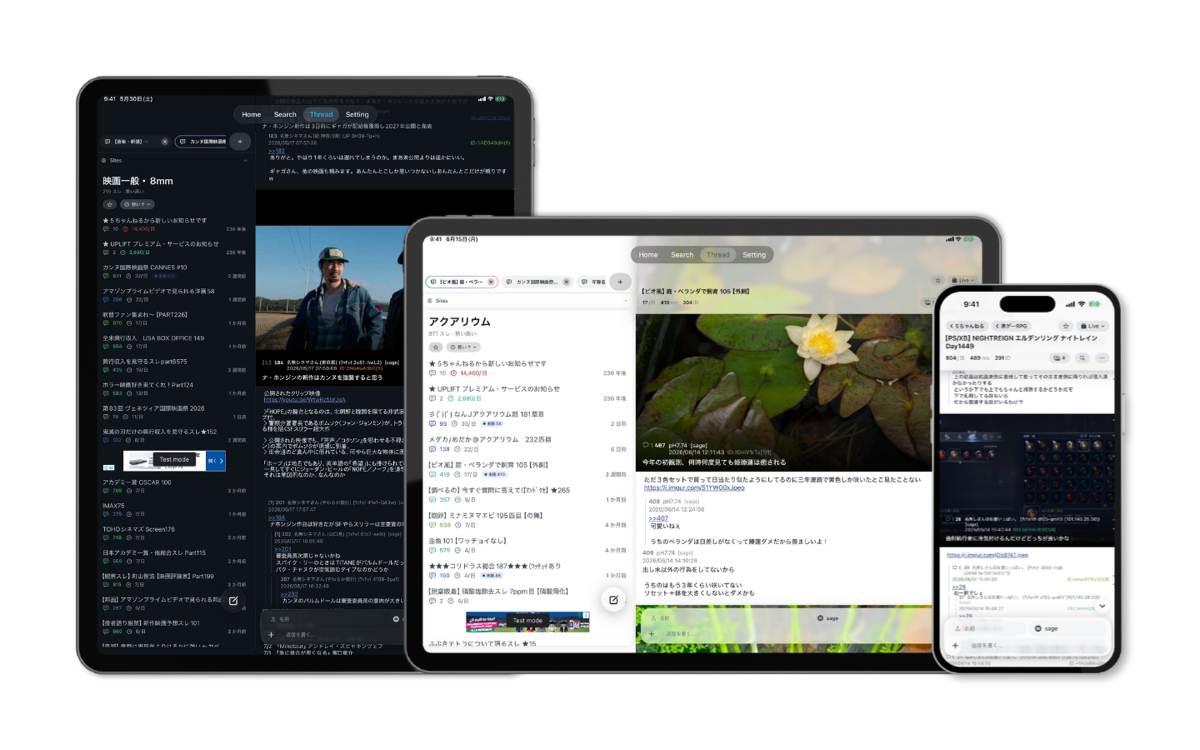
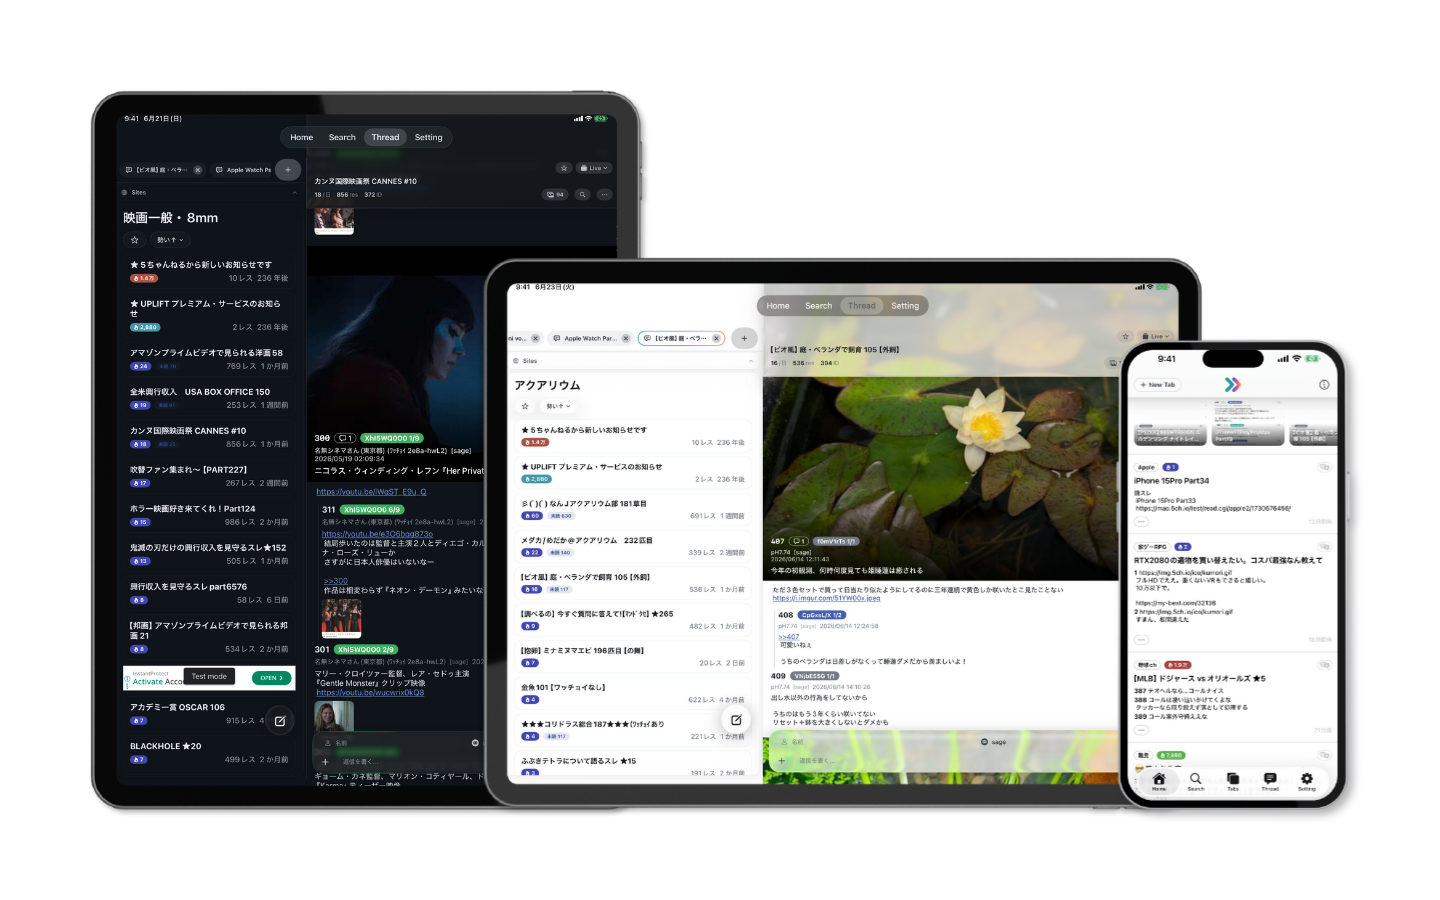
lichen LP: スクショ刷新 (hero/shot1-6 更新) + SCREENS見出しを「スクリーンショット」に

Changed region(s): [[0.0617, 0.1533, 0.9558, 0.92], [0.1542, 0.184, 0.185, 0.2147]]

diff --git a/lichen/index.html b/lichen/index.html
@@ -377,13 +377,15 @@
 <!-- ===================== スクショ / デモ ===================== -->
 <section class="wrap reveal">
   <p class="kicker"><span class="pillar">05 — SCREENS</span></p>
-  <h2>画面で、見る。</h2>
+  <h2>スクリーンショット</h2>
   <p class="sec-lead">実機の様子。スワイプでご覧ください。</p>
   <div class="gallery">
-    <img class="shot" src="assets/shot1.webp" alt="スレ一覧" loading="lazy">
-    <img class="shot" src="assets/shot2.webp" alt="Live モード" loading="lazy">
-    <img class="shot" src="assets/shot3.webp" alt="AI 要約カード" loading="lazy">
-    <img class="shot" src="assets/shot4.webp" alt="NG フィルタ / スレ内検索" loading="lazy">
+    <img class="shot" src="assets/shot1.webp" alt="Lichen スクリーンショット 1" loading="lazy">
+    <img class="shot" src="assets/shot2.webp" alt="Lichen スクリーンショット 2" loading="lazy">
+    <img class="shot" src="assets/shot3.webp" alt="Lichen スクリーンショット 3" loading="lazy">
+    <img class="shot" src="assets/shot4.webp" alt="Lichen スクリーンショット 4" loading="lazy">
+    <img class="shot" src="assets/shot5.webp" alt="Lichen スクリーンショット 5" loading="lazy">
+    <img class="shot" src="assets/shot6.webp" alt="Lichen スクリーンショット 6" loading="lazy">
   </div>
 </section>
 
